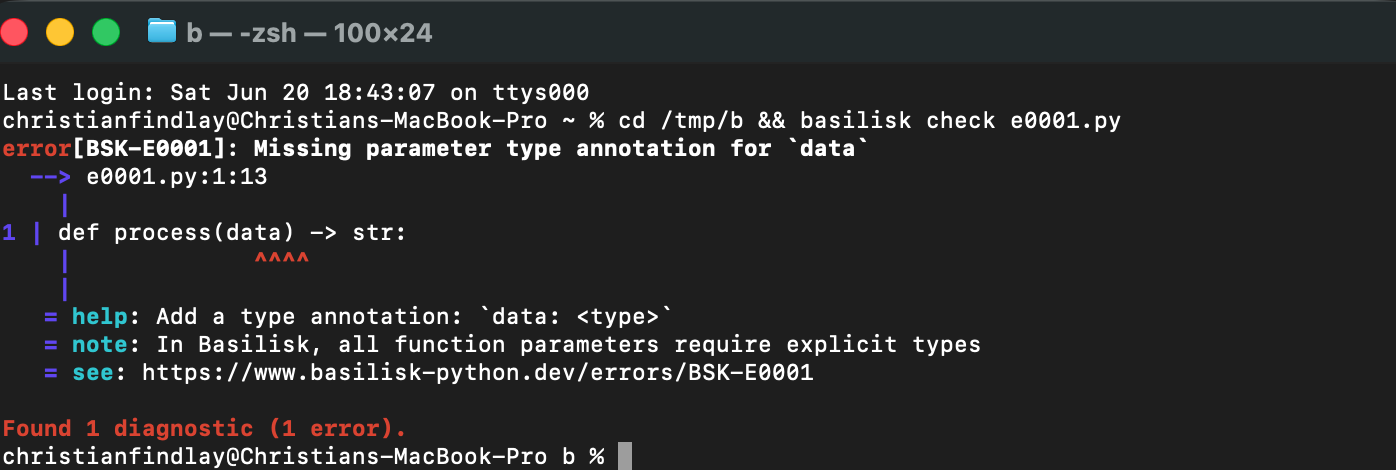
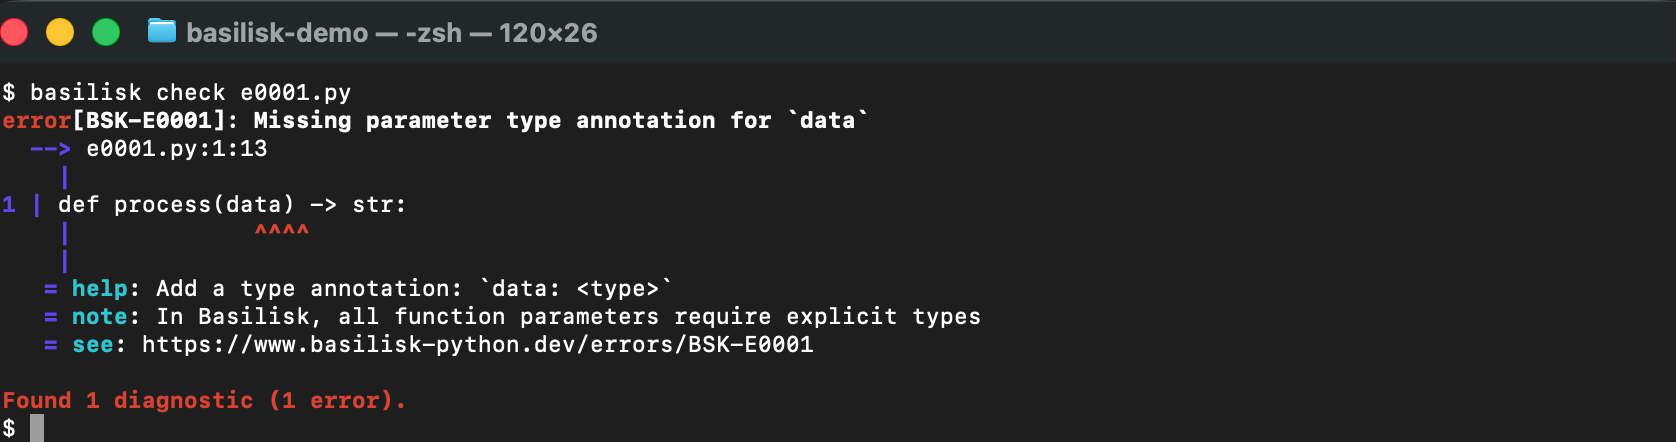
Real CLI screenshots across docs + homepage; rule-example & conformance accuracy fixes
- Embed real, PII-free `basilisk check` terminal screenshots across the
  Missing-Annotations and Type-Safety rule pages and the homepage hero (en/zh).
- Fix rule examples that did not actually trigger their own rule
  (E0003/E0005/E0011/E0014/E0016/E0018/E0025), verified against the binary.
- Correct homepage conformance copy: 19/21 categories at 100%, zero false positives.
- perf(checker): single-pass free_typevars for E0014 alias matching + bench refresh.
- VSIX integration tests capture an editor screenshot to a gitignored folder.
- Document the screenshot-generation process in CLAUDE.md.

Changed region(s): [[0.0, 0.1765, 0.8009, 0.8235], [0.0, 0.8824, 0.462, 1.0], [0.0, 0.0294, 0.3696, 0.1176]]

diff --git a/vscode-extension/src/test/suite/screenshot.ts b/vscode-extension/src/test/suite/screenshot.ts
@@ -1,0 +1,78 @@
+// Implements [VSIX]. See docs/specs/VSIX-SPEC.md#VSIX
+/**
+ * Screenshot capture for Basilisk VS Code extension E2E tests.
+ *
+ * The integration suite runs in a *headed* Electron VS Code instance on the
+ * host (`@vscode/test-cli` / `@vscode/test-electron`). That lets us grab a
+ * picture of the editor — Python file open, Basilisk diagnostics squiggled,
+ * Problems panel — purely for *local* debugging.
+ *
+ * Hard rules (see CLAUDE.md → [GITHUB-NO-ARTIFACTS]):
+ *   - Screenshots are written to a gitignored local folder ONLY.
+ *   - They are NEVER committed and NEVER uploaded as CI artifacts.
+ *
+ * Capture is best-effort: a failure to screenshot must never fail a test, so
+ * every error is swallowed (and logged). On platforms without a screenshot
+ * tool, or in a headless CI run, capture is silently skipped.
+ */
+
+import { execFile } from 'child_process';
+import * as fs from 'fs';
+import * as path from 'path';
+
+/**
+ * Directory where screenshots are written. Resolves to
+ * `vscode-extension/.screenshots/` (gitignored). `__dirname` is
+ * `out/test/suite`, so three levels up reaches the extension root.
+ */
+function screenshotDir(): string {
+    return path.resolve(__dirname, '..', '..', '..', '.screenshots');
+}
+
+/** Sanitise a label into a filesystem-safe filename stem. */
+function safeStem(label: string): string {
+    const cleaned = label.replace(/[^a-zA-Z0-9._-]+/g, '-').replace(/^-+|-+$/g, '');
+    return cleaned.length > 0 ? cleaned : 'screenshot';
+}
+
+/**
+ * Capture a screenshot of the current screen to the gitignored
+ * `.screenshots/` folder. Best-effort: never throws, never fails a test.
+ *
+ * Only macOS is wired up (the dev/CI host for the VSIX suite). `screencapture`
+ * grabs the main display; the headed VS Code test window is frontmost.
+ *
+ * @param label human-readable stem for the file (timestamped to avoid clobber).
+ * @returns the written file path, or `undefined` if capture was skipped/failed.
+ */
+export async function captureScreenshot(label: string): Promise<string | undefined> {
+    if (process.platform !== 'darwin') {
+        return undefined;
+    }
+
+    const dir = screenshotDir();
+    try {
+        fs.mkdirSync(dir, { recursive: true });
+    } catch {
+        return undefined;
+    }
+
+    const stamp = new Date().toISOString().replace(/[:.]/g, '-');
+    const outPath = path.join(dir, `${safeStem(label)}-${stamp}.png`);
+
+    return new Promise<string | undefined>((resolve) => {
+        // -x: no capture sound. -o: omit window shadow. Full main-display grab
+        // is the most reliable mode for a headed test (no window-id lookup).
+        execFile('screencapture', ['-x', '-o', outPath], (error) => {
+            if (error !== null) {
+                // eslint-disable-next-line no-console
+                console.warn(`[screenshot] capture failed for "${label}": ${error.message}`);
+                resolve(undefined);
+                return;
+            }
+            // eslint-disable-next-line no-console
+            console.log(`[screenshot] wrote ${outPath}`);
+            resolve(outPath);
+        });
+    });
+}

diff --git a/vscode-extension/src/test/suite/lsp-integration.test.ts b/vscode-extension/src/test/suite/lsp-integration.test.ts
@@ -28,6 +28,7 @@ import {
     waitForDiagnosticsCleared,
     waitForLspReady,
 } from './test-helpers';
+import { captureScreenshot } from './screenshot';
 
 /** Extra buffer (ms) added to test-level timeouts beyond the core wait. */
 const TIMEOUT_BUFFER_MS = 5_000;
@@ -157,6 +158,11 @@ suite('LSP Integration Tests', () => {
             `Expected diagnostics from Basilisk. ` +
             `Got: ${diagnostics.map((d) => `source=${d.source}, code=${JSON.stringify(d.code)}`).join('; ')}`
         );
+
+        // Capture a picture of the editor with live Basilisk diagnostics into
+        // the gitignored .screenshots/ folder for local debugging. Best-effort:
+        // never fails the test, never uploaded as a CI artifact.
+        await captureScreenshot('diagnostics-untyped-parameter');
     });
 
     // ----------------------------------------------------------------

diff --git a/crates/basilisk-checker/src/rules/e0014/alias_match.rs b/crates/basilisk-checker/src/rules/e0014/alias_match.rs
@@ -33,7 +33,7 @@
 
 use std::collections::{HashMap, HashSet};
 
-use super::callable_check::{contains_word, replace_word};
+use super::callable_check::replace_word;
 use crate::rules::shared::split_top_level_commas;
 use crate::span_util::slice_span;
 use crate::types::InferredType;
@@ -79,6 +79,25 @@ pub(super) fn collect_union_aliases(module: &ResolvedModule) -> HashMap<String, 
     aliases
 }
 
+/// The module `TypeVar`s that appear as whole identifiers in `lowered`, in order
+/// of first appearance, de-duplicated.
+///
+/// Equivalent to filtering `typevars` by `contains_word`, but scans the RHS
+/// tokens once (`O(text)`) instead of testing every module `TypeVar` against the
+/// text (`O(text * typevars)` — quadratic and allocation-heavy on
+/// `TypeVar`-dense modules; see the `BSK-E0026` stress fixture). Appearance
+/// order is deterministic, unlike the previous `HashSet` iteration order.
+fn free_typevars(lowered: &str, typevars: &HashSet<String>) -> Vec<String> {
+    let mut params = Vec::new();
+    let mut seen = HashSet::new();
+    for token in lowered.split(|c: char| !(c.is_ascii_alphanumeric() || c == '_')) {
+        if !token.is_empty() && typevars.contains(token) && seen.insert(token) {
+            params.push(token.to_owned());
+        }
+    }
+    params
+}
+
 /// Collect generic value aliases keyed by lowercase name, with the `TypeVar`
 /// params each binds.
 ///
@@ -101,11 +120,7 @@ pub(super) fn collect_generic_aliases(module: &ResolvedModule) -> HashMap<String
             continue;
         };
         let lowered = text.to_ascii_lowercase();
-        let params: Vec<String> = typevars
-            .iter()
-            .filter(|tv| contains_word(&lowered, tv))
-            .cloned()
-            .collect();
+        let params = free_typevars(&lowered, &typevars);
         if !params.is_empty() {
             let _ = generics.insert(
                 var.name.to_ascii_lowercase(),

diff --git a/website/src/docs/rules/type-safety.md b/website/src/docs/rules/type-safety.md
@@ -32,6 +32,10 @@ from legacy_module import process_data
 # stub-paths at a .pyi for it
 ```
 
+Real `basilisk check` output:
+
+![basilisk check output reporting BSK-E0010 for an unresolved import](/assets/images/e0010.png)
+
 ---
 
 ### BSK-E0011 — Explicit `Any` / return type mismatch
@@ -42,15 +46,13 @@ Two checks share this code. An explicit `Any` annotation silences type checking 
 from typing import Any
 
 # Warning — explicit `Any` must carry a reason
-def handle(
-    data: Any,  # basilisk: ignore[BSK-E0011] -- awaiting stubs for third-party SDK
-) -> bool:
-    ...
-
-# Error — int literal is not assignable to `str`
-def name() -> str:
-    return 42
+def handle(data: Any) -> bool:
+    return True
 ```
+
+Real `basilisk check` output:
+
+![basilisk check output reporting BSK-E0011 for an explicit Any annotation](/assets/images/e0011.png)
 
 ---
 
@@ -62,9 +64,12 @@ A function is called with an argument of the wrong type.
 def greet(name: str) -> str:
     return f"Hello, {name}"
 
-# Error — int is not str
-greet(42)
+greet(42)  # Error — int is not str
 ```
+
+Real `basilisk check` output:
+
+![basilisk check output reporting BSK-E0012 for an argument type mismatch](/assets/images/e0012.png)
 
 ---
 
@@ -77,6 +82,10 @@ def get_count() -> int:
     return "many"  # Error — str is not int
 ```
 
+Real `basilisk check` output:
+
+![basilisk check output reporting BSK-E0013 for a return type mismatch](/assets/images/e0013.png)
+
 ---
 
 ### BSK-E0014 — Assignment incompatibility
@@ -84,9 +93,12 @@ def get_count() -> int:
 A value of the wrong type is assigned to an annotated variable.
 
 ```python
-count: int = 0
-count = "zero"  # Error — str is not int
+count: int = "zero"  # Error — str is not int
 ```
+
+Real `basilisk check` output:
+
+![basilisk check output reporting BSK-E0014 for an assignment incompatibility](/assets/images/e0014.png)
 
 ---
 
@@ -95,9 +107,12 @@ count = "zero"  # Error — str is not int
 A generic type is used with the wrong number of type arguments.
 
 ```python
-x: dict[str]        # Error — dict requires 2 type args
-y: dict[str, int]   # Correct
+x: dict[str] = {}   # Error — dict requires 2 type args
 ```
+
+Real `basilisk check` output:
+
+![basilisk check output reporting BSK-E0015 for an invalid type argument count](/assets/images/e0015.png)
 
 ---
 
@@ -106,13 +121,21 @@ y: dict[str, int]   # Correct
 An overridden method in a subclass has an incompatible signature.
 
 ```python
+from typing import override
+
 class Base:
-    def process(self, data: str) -> str: ...
+    def process(self, data: str) -> str:
+        return data
 
 class Child(Base):
+    @override
     def process(self, data: int) -> str:  # Error — parameter type changed
-        ...
+        return str(data)
 ```
+
+Real `basilisk check` output:
+
+![basilisk check output reporting BSK-E0016 for an incompatible method override](/assets/images/e0016.png)
 
 ---
 
@@ -126,6 +149,15 @@ A class variable is overridden with an incompatible type in a subclass.
 
 A name is used that has not been defined in the current scope.
 
+```python
+def f() -> int:
+    return missing_local  # Error — name is not defined
+```
+
+Real `basilisk check` output:
+
+![basilisk check output reporting BSK-E0018 for an undefined variable](/assets/images/e0018.png)
+
 ---
 
 ### BSK-E0019 — Unbound variable
@@ -138,6 +170,10 @@ def check(flag: bool) -> str:
         result = "yes"
     return result  # Error — result may be unbound
 ```
+
+Real `basilisk check` output:
+
+![basilisk check output reporting BSK-E0019 for an unbound variable](/assets/images/e0019.png)
 
 ---
 
@@ -193,10 +229,18 @@ y: int = 0  # Correct
 A method that overrides a parent class method is missing the `@override` decorator (PEP 698).
 
 ```python
+class Base:
+    def process(self) -> str:
+        return "base"
+
 class Child(Base):
     def process(self) -> str:  # Error — missing @override
-        ...
+        return "child"
 ```
+
+Real `basilisk check` output:
+
+![basilisk check output reporting BSK-E0025 for a missing @override decorator](/assets/images/e0025.png)
 
 ---
 

diff --git a/CLAUDE.md b/CLAUDE.md
@@ -192,6 +192,20 @@ Please register before starting work.
 - Name classes after what the element IS, not what section it's in.
 - Avoid common LLM-default colors (e.g. purple) — use RNG and color wheels.
 
+## Generating CLI Screenshots (real `basilisk check` output)
+
+Marketing/doc screenshots of CLI output must be **real screen captures of the actual binary**, never hand-typed code fences or synthetic renders (those drift and are usually inaccurate). Canonical location: `website/src/assets/images/` (referenced as `/assets/images/<name>.png`). Rule screenshots are named after the code (`e0001.png` … `e0025.png`); the homepage demo pair is `cli-demo.png` (errors) + `cli-clean.png` (pass).
+
+Process (macOS, Terminal.app + `screencapture` + ImageMagick):
+
+1. **Verify the example first.** Many rule examples do NOT trigger the rule they claim — always run `basilisk check` on the snippet and confirm the *exact* target code appears before screenshotting. E.g. E0003/E0005 fire on empty collections (`data = []`), not plain literals; E0014 needs a single annotated assignment (`count: int = "zero"`); E0016 needs `@override` (else it's E0025); E0018 fires on an undefined name in a `return`. Craft minimal snippets that isolate the target code.
+2. **No PII.** Run from a neutrally-named dir (`/tmp/basilisk-demo`, so the title bar reads "basilisk-demo", not the home-dir/username) and set a clean prompt (`export PS1='$ '`) so no username/host appears. Reference relative filenames so diagnostic paths stay clean (`e0001.py:1:13`).
+3. **Drive Terminal deterministically.** Open an empty window, size it (`set number of columns/rows`), then run `cd /tmp/basilisk-demo; export PS1='$ '; clear` followed by `basilisk check <file>.py` *in that window*. Resize BEFORE typing (resizing mid-type corrupts the line).
+4. **Capture the exact window by CGWindowID** (not a screen region — overlapping windows contaminate region captures). Get the frontmost Terminal window id via JXA/CoreGraphics (`CGWindowListCopyWindowInfo`, first owner=="Terminal" layer 0), then `screencapture -x -o -l<id>`. Close stale Terminal windows first so the wrong one isn't picked.
+5. **Crop** with ImageMagick — flatten the rounded-corner alpha onto the terminal background, then trim: `magick raw.png -background 'srgb(30,30,30)' -alpha remove -alpha off -fuzz 6% -trim +repage out.png`.
+
+After generating, rebuild (`cd website && npm run build`) and confirm the images copy to `_site/assets/images/` and render. VSIX integration tests capture their own editor screenshots to the gitignored `vscode-extension/.screenshots/` (never committed, never a CI artifact — see [GITHUB-NO-ARTIFACTS]).
+
 ## Architecture
 
 Strict-by-default Python type checker and comprehensive LSP built in **Rust**. One IDE extension = complete Python dev experience. Users can flick errors down to warnings and incrementally adopt type safety, or just use the LSP for autofixes, formatting, debugging, and profiling.
